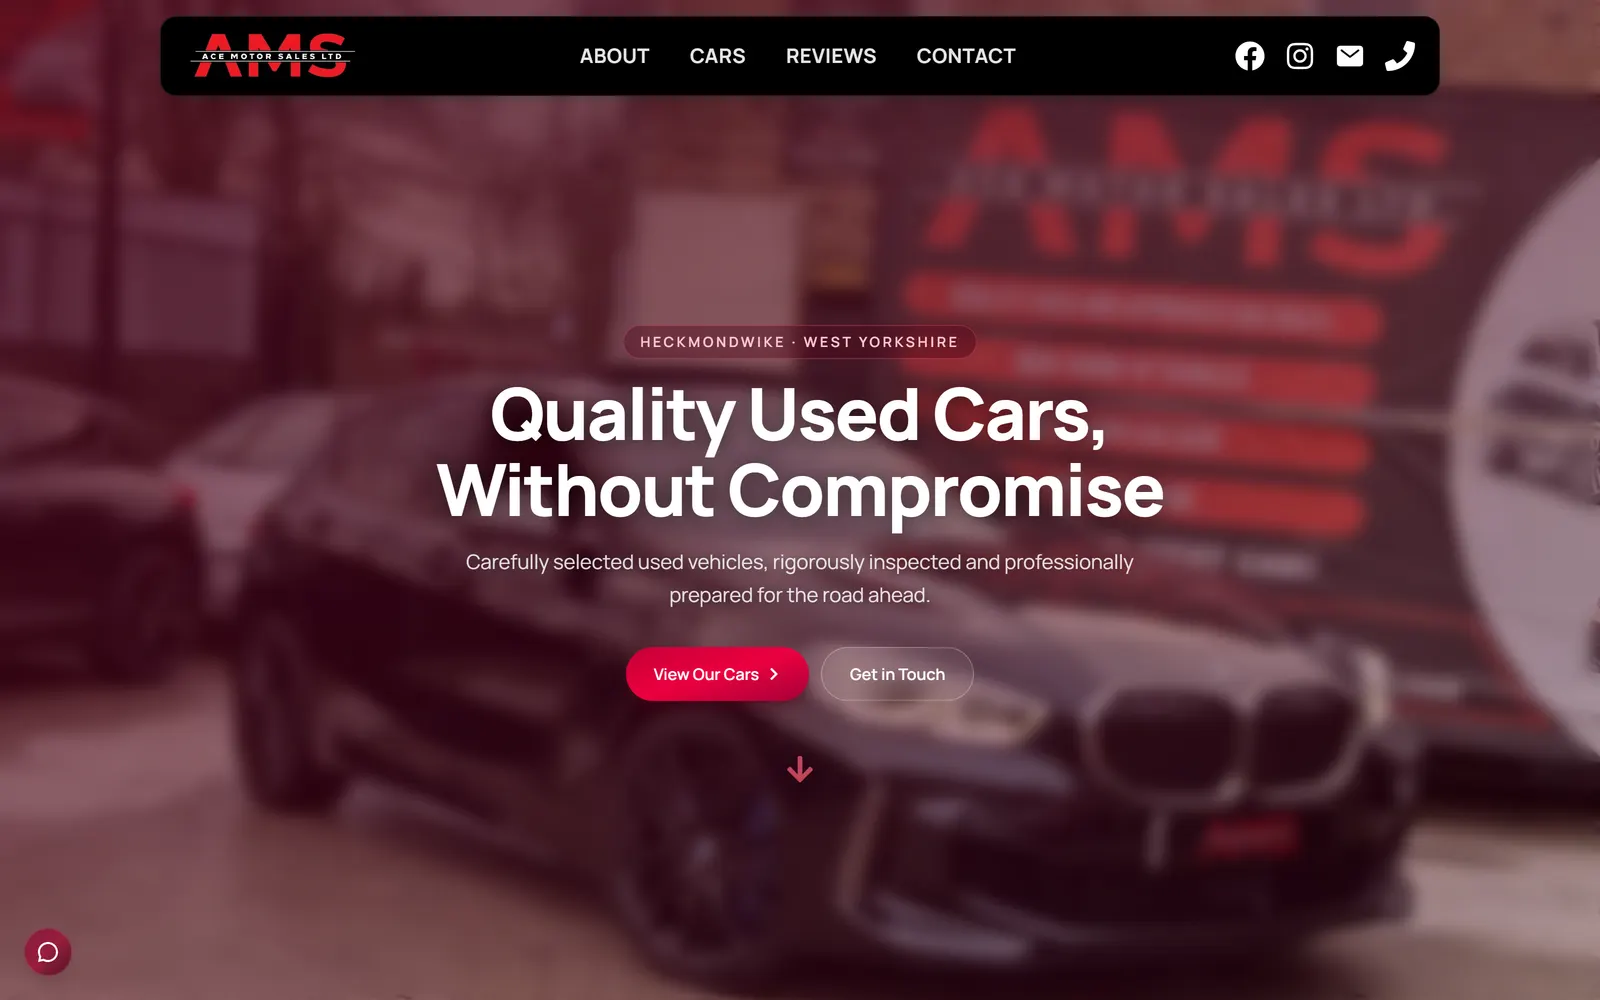
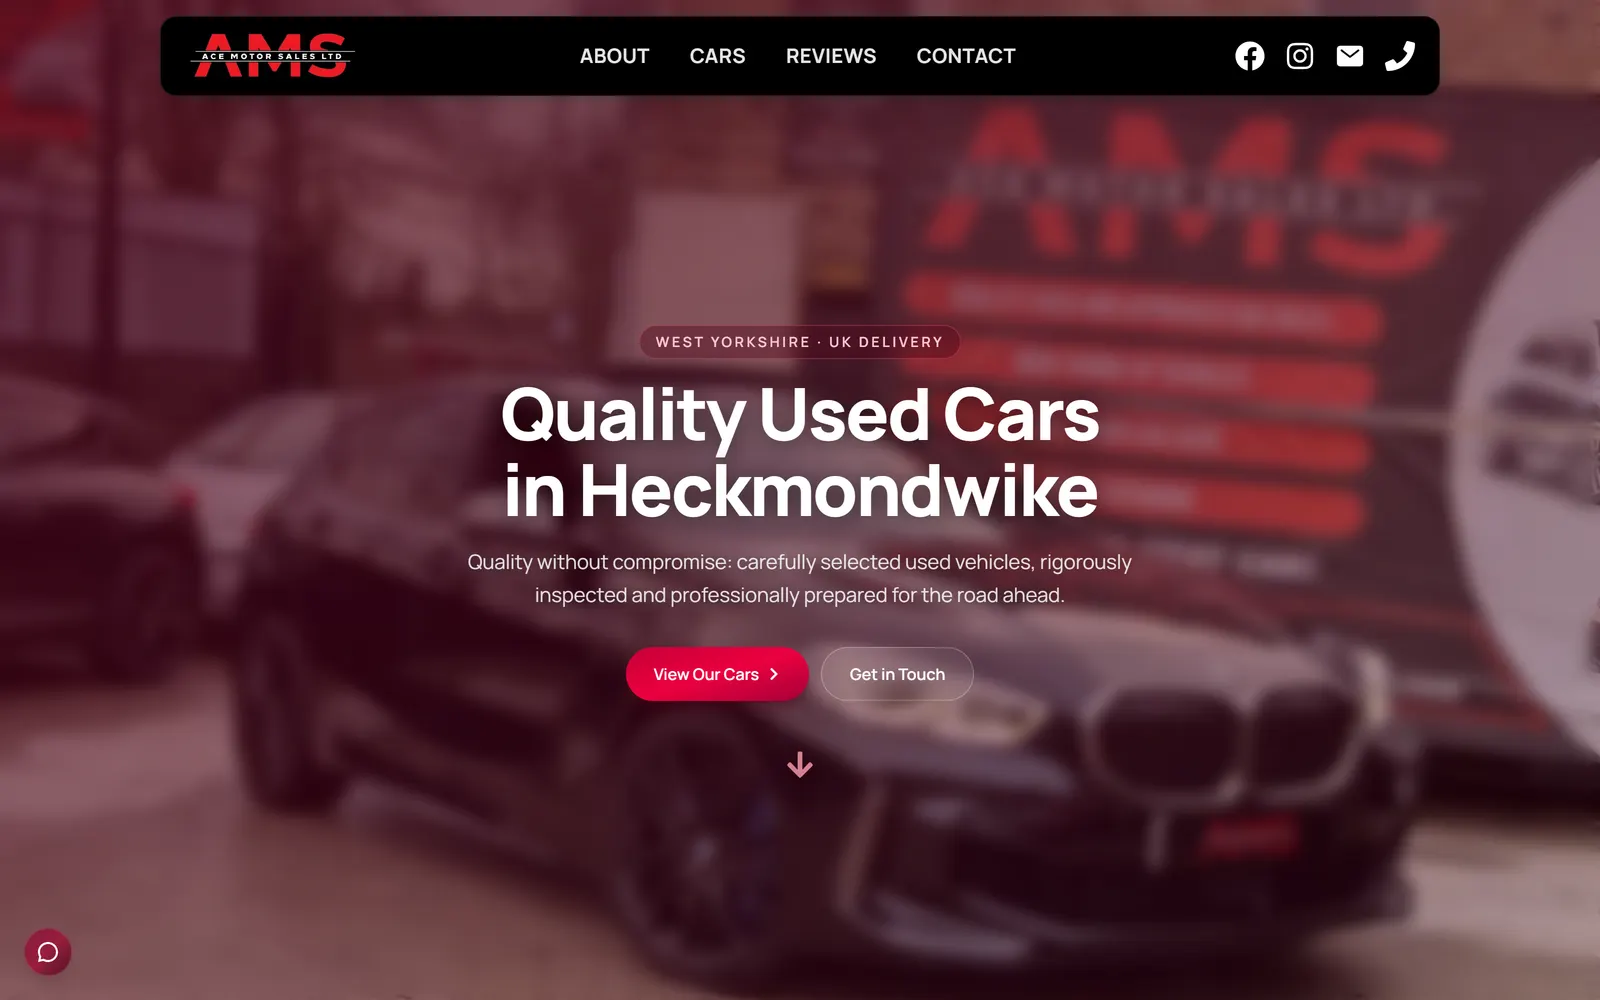
refresh Ace Motor Sales snapshot, fix Beds4U description
The AMS landing page has been redesigned, and Beds4U was still
carrying the car rental copy from its Hxmza days.

Changed region(s): [[0.25, 0.31, 0.75, 0.527], [0.2812, 0.558, 0.7188, 0.62], [0.4688, 0.744, 0.5, 0.775]]

diff --git a/components/Projects.tsx b/components/Projects.tsx
@@ -16,7 +16,7 @@ const projects = [
   ],
   [
     "Beds4U",
-    "A distinctive home for a car rental business.",
+    "An online store for a UK bed factory.",
     "hxmza",
     "https://hxmza.uk",
   ],
